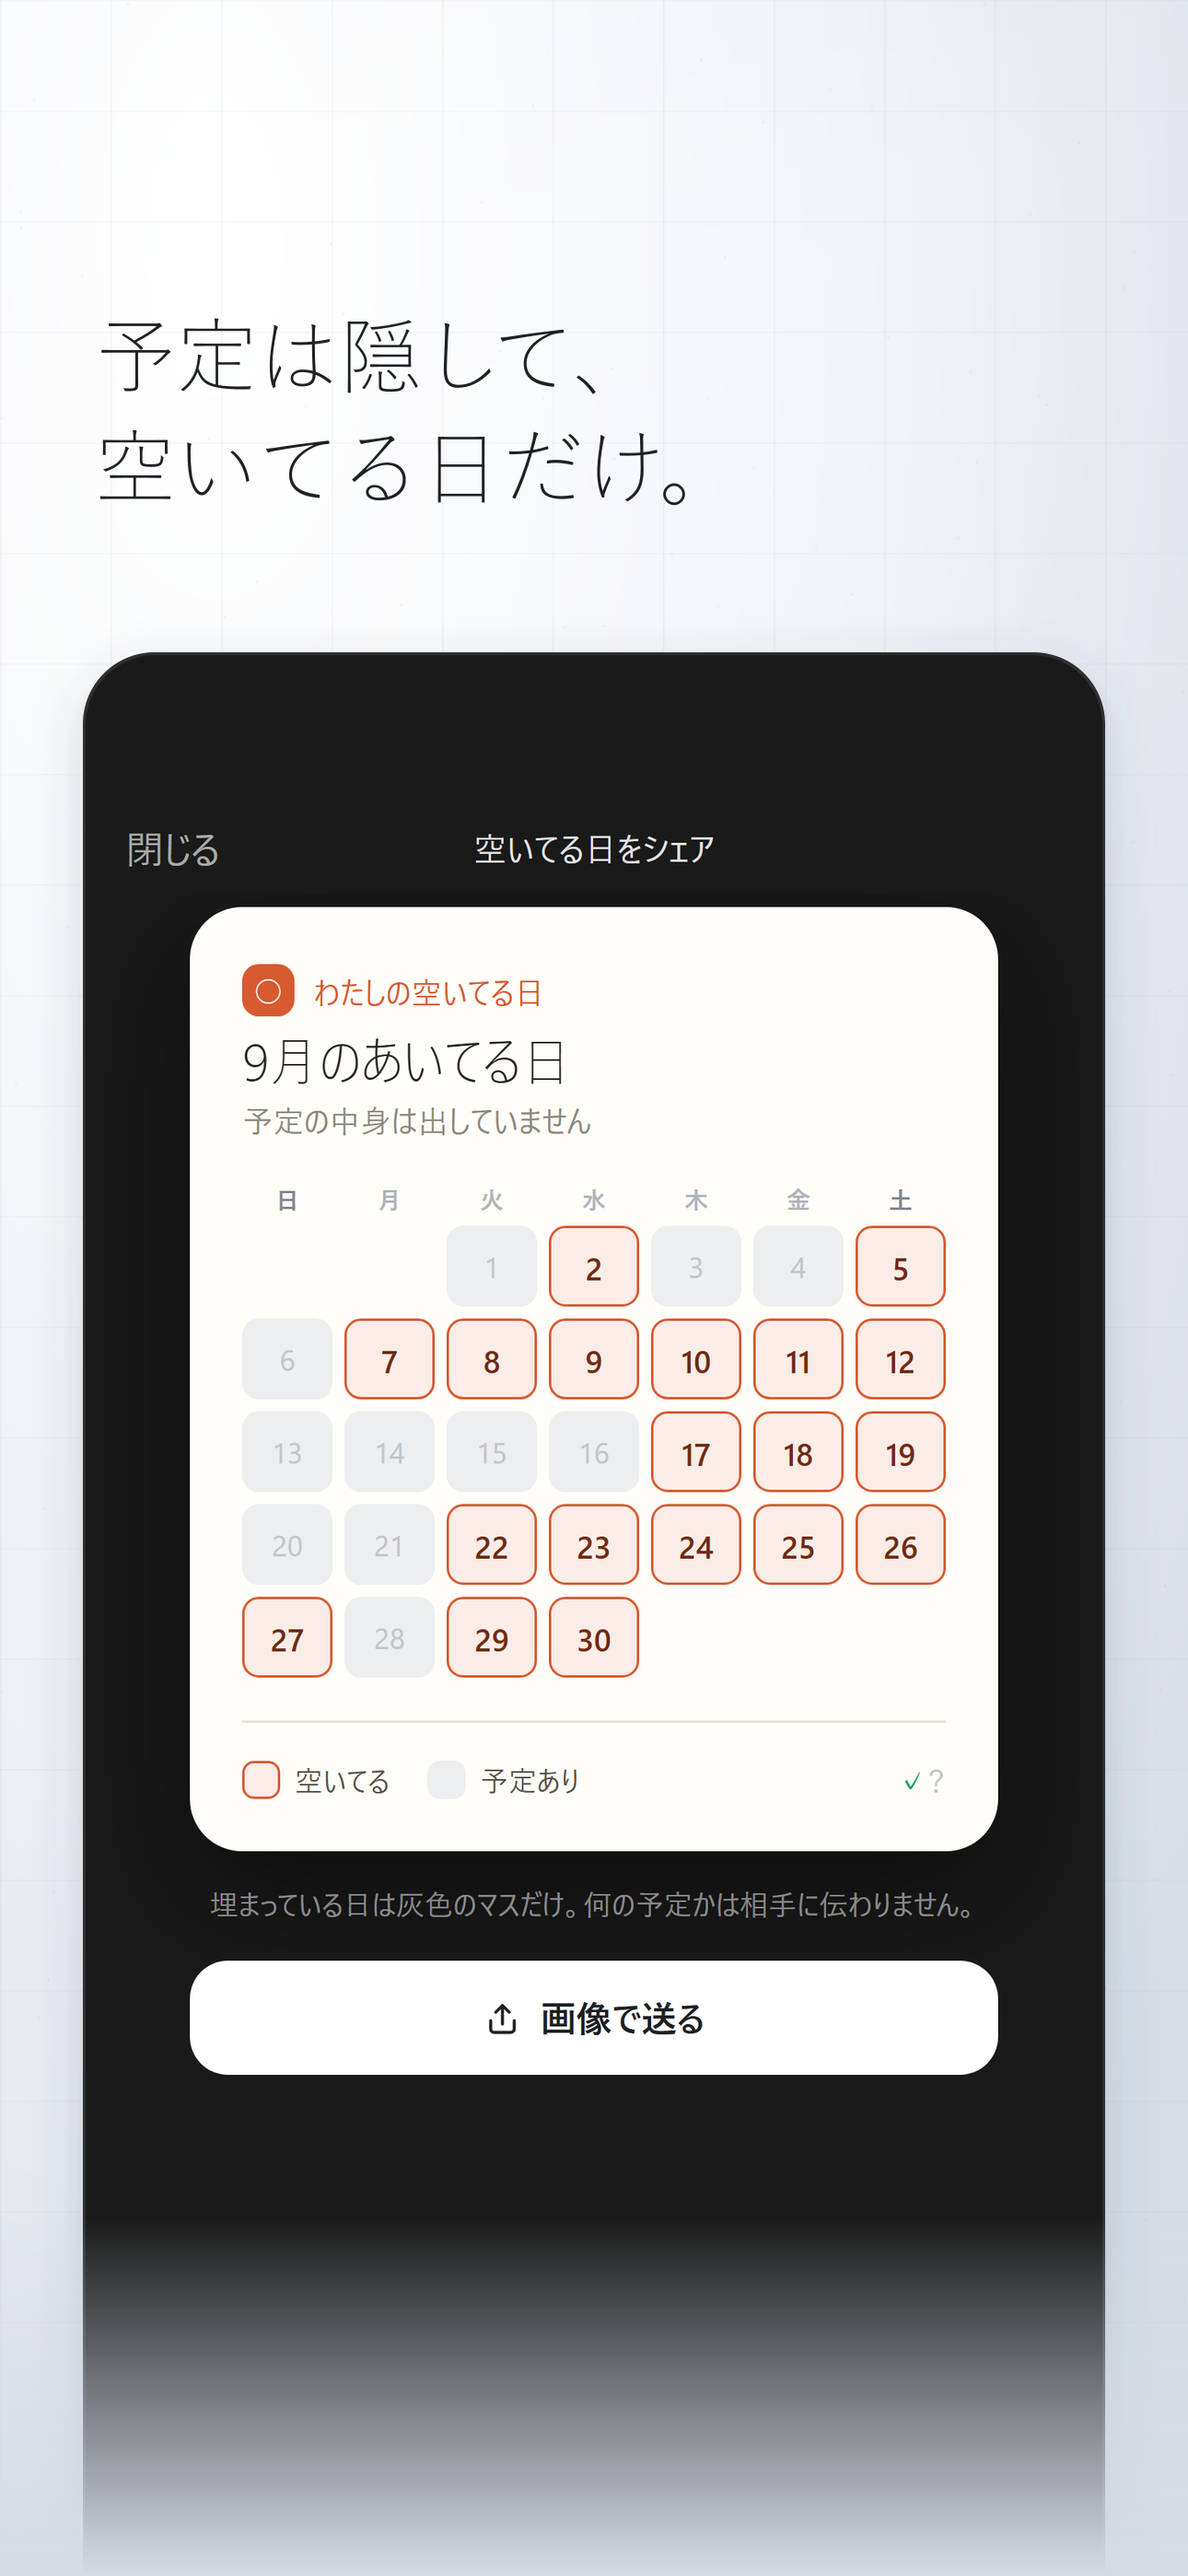
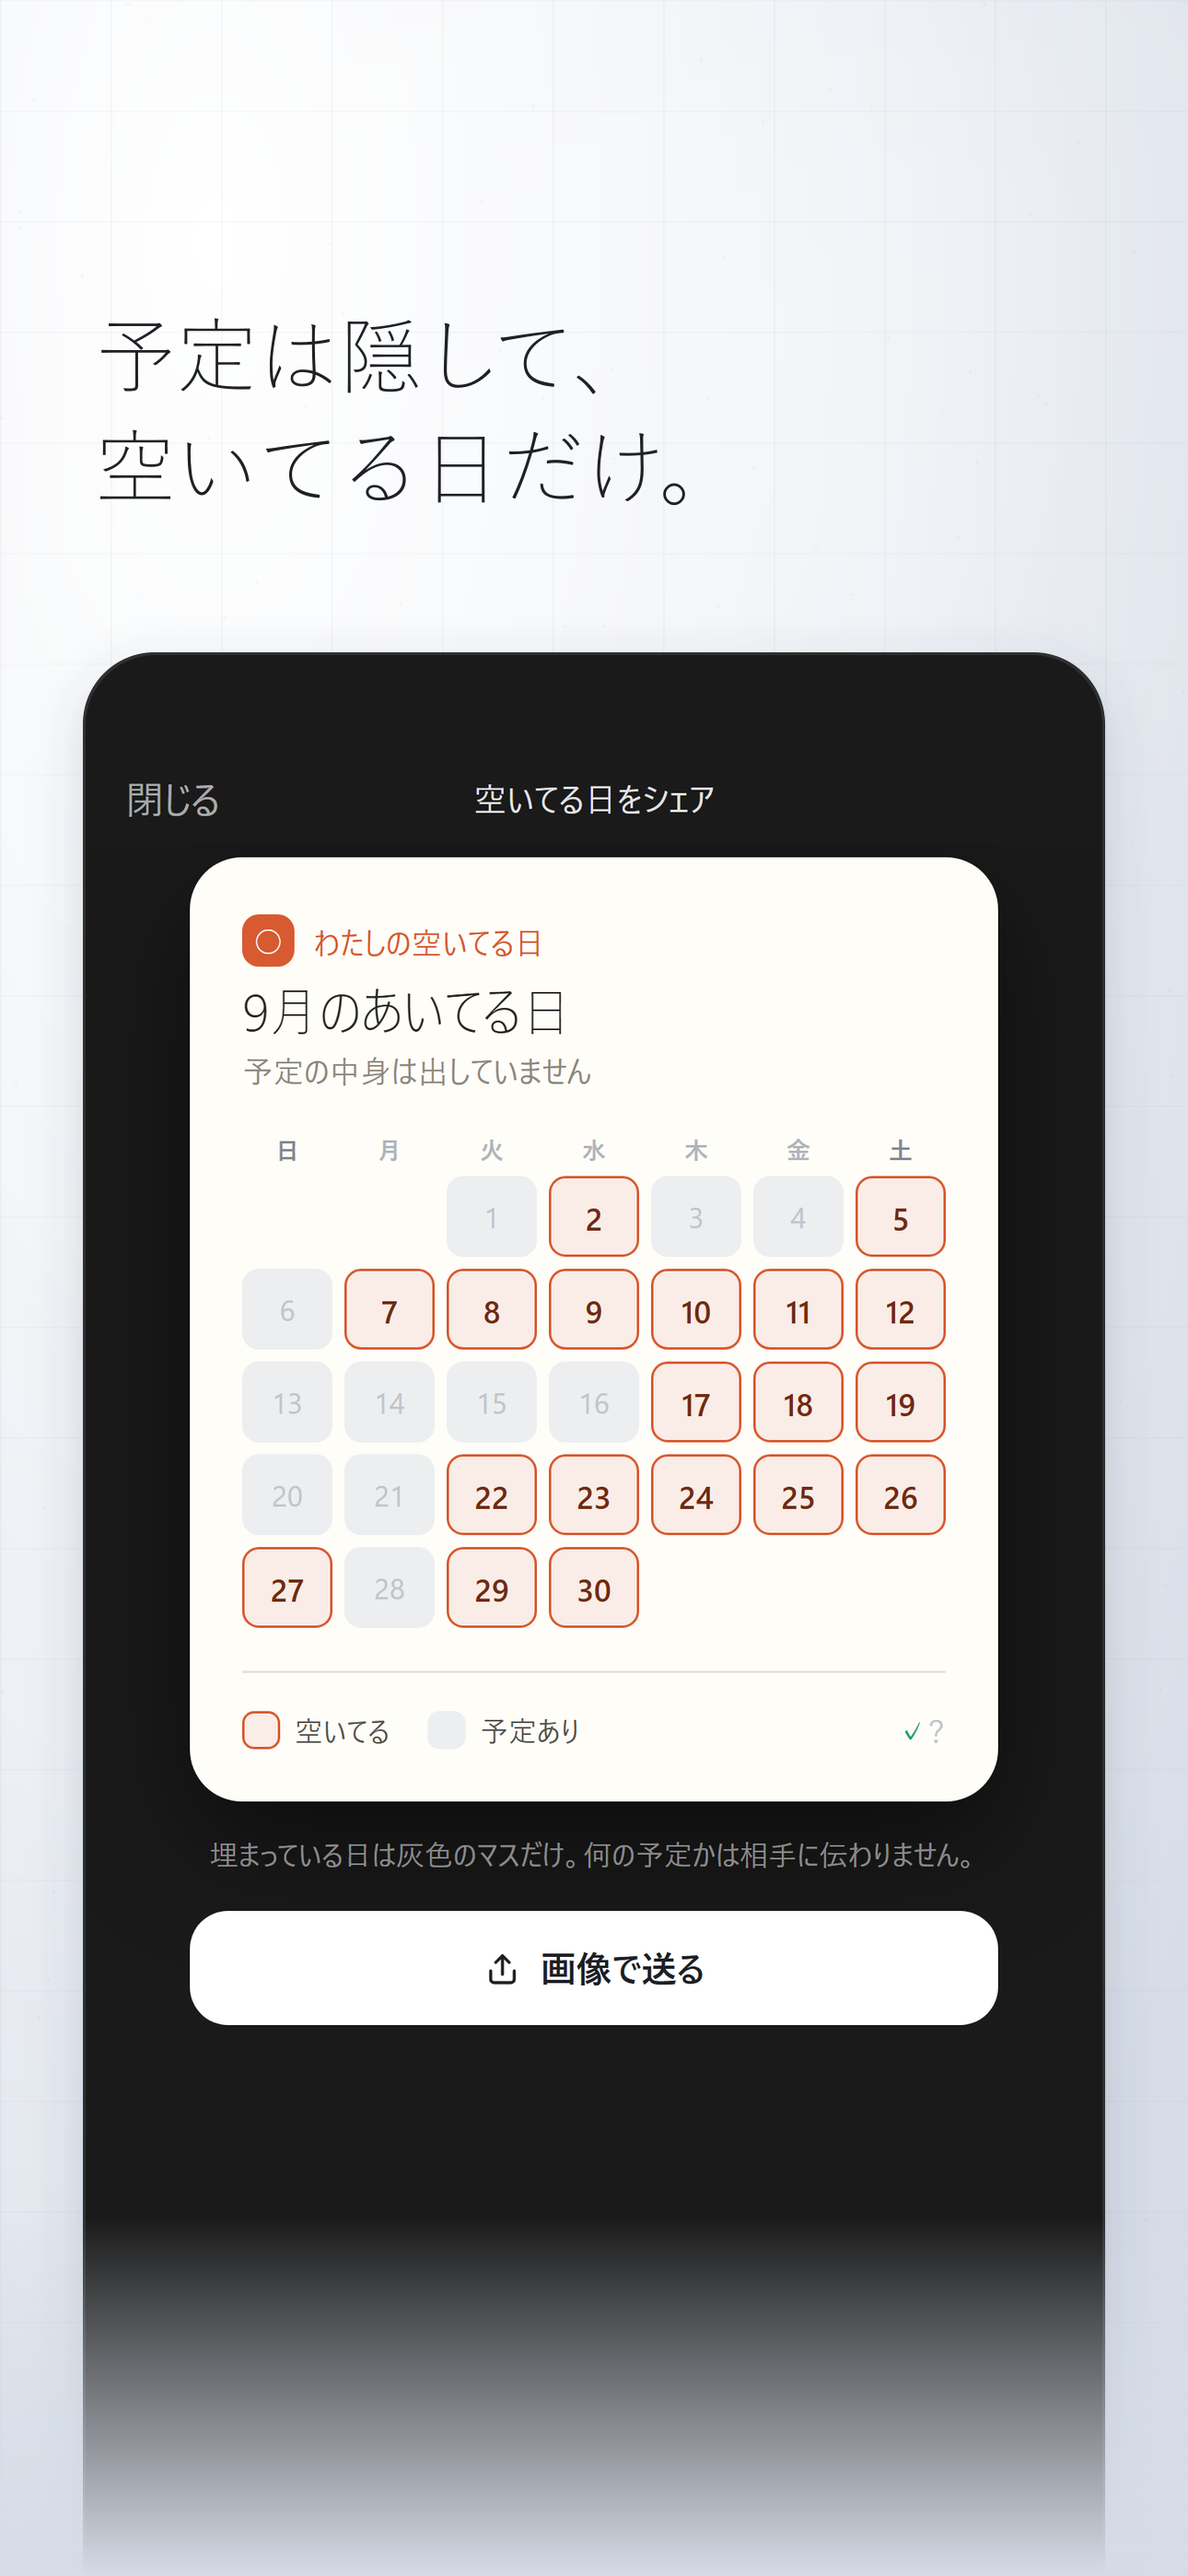
板の中の帯を 50 から 32 へ詰める
実機の割合そのまま（59/932 に板の縮尺を掛けて 50）だと空きすぎた。
50 / 32 / 22 を実寸で並べて 32 にした。22 は「9月」が枠に近すぎる。
argv[3] で変えられるようにしてある。

Changed region(s): [[0.093, 0.3112, 0.8372, 0.809]]

diff --git a/store-assets/app-store-metadata.md b/store-assets/app-store-metadata.md
@@ -215,7 +215,7 @@ App Store に登録するのは、そこに見出しを載せた **`store-cards-
 - **グラデーションは「中」**。強くすると下は締まるが、**白い板の上の辺が地に溶けて消える**
   （測ると 1.026 → 1.002）。原因は光の玉を板の上に置いたことで、
   光を見出しの側へ寄せた4つ目（`GRADS[3]`）なら両端とも得をする。今回は中で決めた
-- **板の中、画面の上に 50px の帯を置く。** 実機なら時計や電池が出ている場所で、
+- **板の中、画面の上に 32px の帯を置く。** 実機なら時計や電池が出ている場所で、
   アプリの地はその下まで続いている。**その地の色をそのまま上へ伸ばしている**
   ——白で塗ると継ぎ目が出るし、時計を描き足すと嘘になる
 - **板の下は地へ霞ませて終わらせる。** ぶつ切りは「切り忘れ」に見える

diff --git a/NEXT.md b/NEXT.md
@@ -265,7 +265,7 @@ node app/tools/store-cards.cjs
   原因で、光を見出しの側へ寄せれば両端とも得をする（`GRADS[3]`）。今回は「中」で決めた
 - **`make-shots.mjs` の選び方が古くなっていた。**「今月のまとめカード」を完全一致で
   待っていたが、いまの行は「9月のまとめカード」。末尾で拾うように直した
-- **板の中、画面の上に 50px の帯を置いた。** 実機なら時計や電池が出ている場所。
+- **板の中、画面の上に 32px の帯を置いた。** 実機なら時計や電池が出ている場所。
   アプリの地はその下まで続いているので、**その地の色をそのまま上へ伸ばしている**
   （白で塗ると継ぎ目が出るし、時計を描き足すと嘘になる）
 - demo の予定名を「カフェ」から「バイト」に変えた。月のマスには5文字しか入らないので
